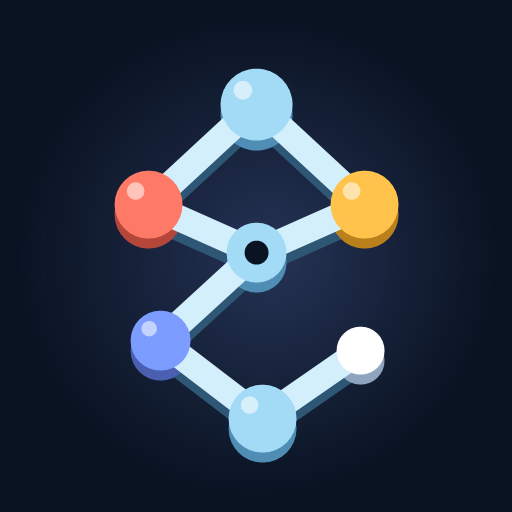
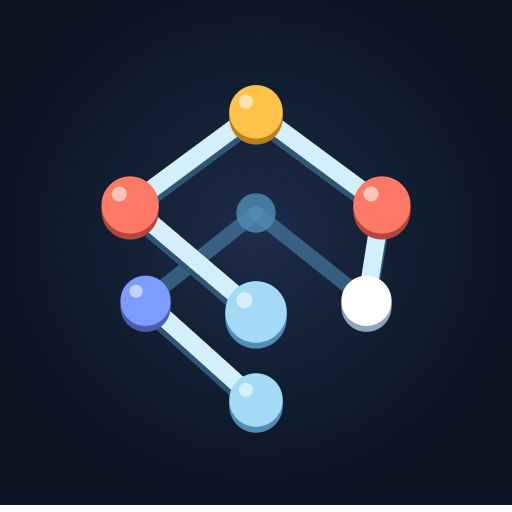
v227: capa: cubo animado em ciclo (giro, pulso dos átomos, balanço, elétrons nas ligações); sem a imagem de referência; ícone do app novo

Changed region(s): [[0.1875, 0.125, 0.8125, 0.9062], [0.0, 0.9688, 1.0, 1.0]]

diff --git a/index.html b/index.html
@@ -78,7 +78,6 @@
   #capa.ativa { display: grid; }
   /* logo acima do título; entra com o mesmo "pop" dos átomos */
   #capa .logo-linha { display: flex; align-items: center; gap: 18px; margin: 0 0 1.1rem; }
-  #capa .logo-ref { display: block; width: clamp(40px, 3vw + 20px, 64px); height: auto; filter: invert(1); opacity: .9; }
   #capa .logo-capa { display: block; width: clamp(64px, 6vw + 30px, 104px); aspect-ratio: 1; height: auto; margin: 0; cursor: grab; touch-action: none; filter: drop-shadow(0 10px 24px rgba(124,156,255,.28)); }
   #capa.play .logo-capa { animation: pop .6s cubic-bezier(.3,1.6,.5,1) both; transform-origin: 50% 80%; }
   @media (prefers-reduced-motion: reduce) { #capa.play .logo-capa { animation: none; } }
@@ -1331,7 +1330,6 @@
   <div class="text">
     <div class="logo-linha">
       <svg class="logo-capa" id="logoCubo" viewBox="-20 -14 552 552" role="img" aria-label="Cubo de átomos: arraste para girar"><use href="#logo"/></svg>
-      <img class="logo-ref" src="imagens/icone-referencia.png" alt="Ícone de referência">
     </div>
     <h1><span class="l2">Moléculas</span></h1>
     <p class="lede">Um audiobook interativo sobre ligações químicas: ouça, observe e aprenda a montar moléculas passo a passo.</p>
@@ -1344,7 +1342,7 @@
     </div>
     <button class="btn-iniciar" id="btnIniciar" type="button"><span class="ico"><svg viewBox="0 0 12 14" aria-hidden="true"><path d="M0 0L12 7L0 14Z" fill="currentColor"/></svg></span><span class="lbl">Iniciar</span></button>
     <button class="btn-demo" id="btnDemo" type="button" title="O app passa sozinho, sem som, com uma mãozinha fazendo os toques e respondendo os quizzes">Demonstração</button>
-    <span class="versao" id="versao">v226 · 11/10/2026</span>
+    <span class="versao" id="versao">v227 · 11/10/2026</span>
     <div class="credit">
       <span class="avatar"><img src="imagens/amauri_jr.jpg" alt="Foto de Amauri Junior"></span>
       <span class="credit-txt"><small>Designed by</small><strong>Amauri Junior</strong></span>
@@ -10050,55 +10048,108 @@ const Dev = {
 };
 Dev.iniciar();
 
-// o cubo de átomos da capa: desenhado em 3D (projeção com perspectiva) e girado com o dedo/mouse
+// o cubo de átomos da capa: desenhado em 3D (projeção com perspectiva), animado em ciclo e girado com o dedo/mouse
+// ciclo (12 s): descanso → giro completo → descanso → átomos crescem em sequência → descanso → balanço → descanso;
+// os elétrons (2 por ligação, um par) correm pelas ligações o tempo todo
 const CuboCapa = {
-  // a pose escolhida pela professora: amarelo no alto, corais nos lados, visto bem de cima
-  ay: 45 * Math.PI / 180, ax: -55 * Math.PI / 180, vy: 0, vx: 0,
-  // só as arestas do ícone (as pintadas de vermelho): o "V" de cima, as duas diagonais paralelas, a lateral direita e a de baixo
+  // a pose de descanso escolhida pela professora: amarelo no alto, corais nos lados, visto bem de cima
+  AY0: 45 * Math.PI / 180, AX0: -55 * Math.PI / 180,
+  // só as arestas do ícone (as pintadas de vermelho)
   ARESTAS: [[3, 2], [3, 7], [2, 6], [1, 5], [1, 0], [7, 5], [0, 4]],
   CORES: ["#7C9CFF","#A3DBF7","#FF7A66","#FFC24B","#A3DBF7","#FFFFFF","#A3DBF7","#FF7A66"],
   ESCURAS: ["#4A5FB0","#4F8DB5","#B4473A","#B9801B","#4F8DB5","#8FA4BF","#4F8DB5","#B4473A"],
+  ORDEM_PULSO: [3, 2, 7, 1, 6, 0, 5, 4],   // de cima para baixo
+  CICLO: 12,
+  modo: "auto", tl: 0, vy: 0, vx: 0,
   iniciar() {
     const s = this.el = document.getElementById("logoCubo"); if (!s) return;
     this.V = []; for (const x of [-1, 1]) for (const y of [-1, 1]) for (const z of [-1, 1]) this.V.push([x, y, z]);
-    this.E = this.ARESTAS;
-    this.desenhar();
-    // o ícone do topo da página 1 é o mesmo cubo, parado nessa pose
+    this.E = this.ARESTAS; this.ay = this.AY0; this.ax = this.AX0;
+    this.desenhar(null, false);
+    // o ícone do topo da página 1 é o mesmo cubo, parado na pose de descanso
     const sym = document.getElementById("logo");
     if (sym) { sym.setAttribute("viewBox", "-20 -14 552 552"); sym.innerHTML = s.innerHTML; }
     let ult = null;
-    s.addEventListener("pointerdown", e => { ult = { x: e.clientX, y: e.clientY, t: performance.now() }; this.vy = this.vx = 0; s.style.cursor = "grabbing";
-      try { s.setPointerCapture(e.pointerId); } catch (_) {} });
+    s.addEventListener("pointerdown", e => { ult = { x: e.clientX, y: e.clientY, t: performance.now() }; this.vy = this.vx = 0; this.modo = "mao";
+      s.style.cursor = "grabbing"; try { s.setPointerCapture(e.pointerId); } catch (_) {} });
     s.addEventListener("pointermove", e => { if (!ult) return;
       const dx = e.clientX - ult.x, dy = e.clientY - ult.y, dt = Math.max(performance.now() - ult.t, 1), k = .012;
-      this.ay += dx * k; this.ax = Math.max(-1.4, Math.min(1.4, this.ax - dy * k));
+      this.ay += dx * k; this.ax = this.limita(this.ax - dy * k);
       this.vy = dx * k / dt * 16; this.vx = -dy * k / dt * 16;
-      ult = { x: e.clientX, y: e.clientY, t: performance.now() }; this.desenhar(); });
-    const solta = () => { if (!ult) return; ult = null; s.style.cursor = ""; this.embalo(); };
+      ult = { x: e.clientX, y: e.clientY, t: performance.now() }; });
+    const solta = () => { if (!ult) return; ult = null; s.style.cursor = ""; this.modo = "embalo"; };
     s.addEventListener("pointerup", solta); s.addEventListener("pointercancel", solta);
+    if (matchMedia("(prefers-reduced-motion: reduce)").matches) return;   // parado, só o arraste
+    let antes = performance.now();
+    const quadro = agora => {
+      const dt = Math.min((agora - antes) / 1000, .05); antes = agora;
+      const capa = document.getElementById("capa");
+      if (capa.classList.contains("ativa") && !document.hidden) { this.passo(dt); this.desenhar(this.pulsos(), true); }
+      requestAnimationFrame(quadro);
+    };
+    requestAnimationFrame(quadro);
   },
-  // solto com velocidade, ele continua girando e vai parando
-  embalo() {
-    const passo = () => { if (Math.abs(this.vy) + Math.abs(this.vx) < .0008) return;
-      this.ay += this.vy; this.ax = Math.max(-1.4, Math.min(1.4, this.ax + this.vx)); this.vy *= .94; this.vx *= .94;
-      this.desenhar(); requestAnimationFrame(passo); };
-    requestAnimationFrame(passo);
+  limita(a) { return Math.max(-1.4, Math.min(1.4, a)); },
+  suave(u) { u = Math.max(0, Math.min(1, u)); return u < .5 ? 4 * u * u * u : 1 - Math.pow(-2 * u + 2, 3) / 2; },
+  passo(dt) {
+    this.tl += dt; this.te = (this.te || 0) + dt;   // te: o relógio dos elétrons (nunca para)
+    if (this.modo === "auto") {
+      const t = this.tl % this.CICLO;
+      let ay = this.AY0, ax = this.AX0;
+      if (t >= 2 && t < 4.4) ay += 2 * Math.PI * this.suave((t - 2) / 2.4);             // giro completo
+      else if (t >= 8.6 && t < 10.8) { const u = (t - 8.6) / 2.2;                          // balanço
+        ax += .5 * Math.sin(Math.PI * u); ay += .75 * Math.sin(2 * Math.PI * u) * (1 - u * .4); }
+      this.ay = ay; this.ax = ax;
+    } else if (this.modo === "embalo") {
+      this.ay += this.vy; this.ax = this.limita(this.ax + this.vx); this.vy *= .94; this.vx *= .94;
+      if (Math.abs(this.vy) + Math.abs(this.vx) < .0008) { this.modo = "espera"; this.espera = 2.2; }
+    } else if (this.modo === "espera") {
+      if ((this.espera -= dt) <= 0) {
+        // volta para o descanso pelo caminho mais curto
+        const dy = ((this.ay - this.AY0) % (2 * Math.PI) + 3 * Math.PI) % (2 * Math.PI) - Math.PI;
+        this.volta = { ay: this.AY0 + dy, ax: this.ax, u: 0 }; this.modo = "volta";
+      }
+    } else if (this.modo === "volta") {
+      const v = this.volta; v.u += dt / 1.1; const k = this.suave(v.u);
+      this.ay = v.ay + (this.AY0 - v.ay) * k; this.ax = v.ax + (this.AX0 - v.ax) * k;
+      if (v.u >= 1) { this.modo = "auto"; this.tl = 0; }
+    }
   },
-  desenhar() {
+  // os átomos crescem um depois do outro (fator de escala de cada um)
+  pulsos() {
+    const esc = new Array(8).fill(1); if (this.modo !== "auto") return esc;
+    const t = this.tl % this.CICLO - 5.6;
+    this.ORDEM_PULSO.forEach((i, n) => { const u = (t - n * .2) / .55; if (u > 0 && u < 1) esc[i] = 1 + .42 * Math.sin(Math.PI * u); });
+    return esc;
+  },
+  desenhar(esc, eletrons) {
+    esc = esc || new Array(8).fill(1);
     const S = 112, cx = 256, cy = 262, ay = this.ay, ax = this.ax;
     const P = this.V.map(([x, y, z]) => { const X = x * Math.cos(ay) + z * Math.sin(ay); let Z = -x * Math.sin(ay) + z * Math.cos(ay);
       const Y = y * Math.cos(ax) - Z * Math.sin(ax); Z = y * Math.sin(ax) + Z * Math.cos(ax); const k = 1 / (1 + Z * .08);
       return { x: cx + X * S * k, y: cy - Y * S * k, z: Z, k }; });
     const f = n => n.toFixed(1), linha = ([a, b]) => `<line x1="${f(P[a].x)}" y1="${f(P[a].y)}" x2="${f(P[b].x)}" y2="${f(P[b].y)}"/>`;
-    // o canto mais ao fundo fica apagado, com as suas 3 ligações; o resto claro, com sombra, do fundo para a frente
+    // o canto mais ao fundo fica apagado, com as suas ligações; o resto claro, com sombra, do fundo para a frente
     const fundo = P.reduce((m, p, i) => p.z > P[m].z ? i : m, 0);
     const tras = this.E.filter(e => e.includes(fundo)), frente = this.E.filter(e => !e.includes(fundo));
     const ordem = P.map((p, i) => i).sort((a, b) => P[b].z - P[a].z);
+    // os elétrons: um par por ligação, indo de uma ponta à outra e nascendo/sumindo dentro dos átomos
+    const eletronsDe = (lista, apagado) => !eletrons ? "" : lista.map(e => {
+      const k = this.E.indexOf(e), [a, b] = e;
+      return [0, .5].map(d => { const p = ((this.te || 0) / 1.5 + k * .29 + d) % 1, op = Math.sin(Math.PI * p) * (apagado ? .45 : 1);
+        const x = P[a].x + (P[b].x - P[a].x) * p, y = P[a].y + (P[b].y - P[a].y) * p;
+        return `<circle cx="${f(x)}" cy="${f(y)}" r="24" fill="#FFC24B" fill-opacity="${(op * .32).toFixed(2)}"/>`
+          + `<circle cx="${f(x)}" cy="${f(y)}" r="11" fill="#FFF3C4" fill-opacity="${op.toFixed(2)}"/>`; }).join("");
+    }).join("");
     let s = `<g stroke="#4F8DB5" stroke-opacity=".55" stroke-width="20" stroke-linecap="round">${tras.map(linha).join("")}</g>`
-      + `<circle cx="${f(P[fundo].x)}" cy="${f(P[fundo].y)}" r="${f(30 * P[fundo].k)}" fill="#4F8DB5" fill-opacity=".8"/>`
+      + eletronsDe(tras, true)
+      + `<circle cx="${f(P[fundo].x)}" cy="${f(P[fundo].y)}" r="${f(30 * P[fundo].k * esc[fundo])}" fill="#4F8DB5" fill-opacity=".8"/>`
       + `<g stroke="#2E5775" stroke-width="26" stroke-linecap="round" transform="translate(0 8)">${frente.map(linha).join("")}</g>`
-      + `<g stroke="#D3EFFC" stroke-width="24" stroke-linecap="round">${frente.map(linha).join("")}</g>`;
-    for (const i of ordem) { if (i === fundo) continue; const p = P[i], r = 36 * p.k;
+      + `<g stroke="#D3EFFC" stroke-width="24" stroke-linecap="round">${frente.map(linha).join("")}</g>`
+      + eletronsDe(frente, false);
+    for (const i of ordem) { if (i === fundo) continue; const p = P[i], r = 36 * p.k * esc[i];
+      // no pulso, um halo da cor do átomo
+      if (esc[i] > 1.01) s += `<circle cx="${f(p.x)}" cy="${f(p.y)}" r="${f(r * 1.45)}" fill="${this.CORES[i]}" fill-opacity="${((esc[i] - 1) / .42 * .3).toFixed(2)}"/>`;
       s += `<circle cx="${f(p.x)}" cy="${f(p.y + 8)}" r="${f(r)}" fill="${this.ESCURAS[i]}"/><circle cx="${f(p.x)}" cy="${f(p.y)}" r="${f(r)}" fill="${this.CORES[i]}"/>`
         + `<circle cx="${f(p.x - r * .38)}" cy="${f(p.y - r * .38)}" r="${f(r * .26)}" fill="#fff" fill-opacity=".55"/>`; }
     this.el.innerHTML = s;

diff --git a/sw.js b/sw.js
@@ -1,6 +1,6 @@
 /* Service worker do app. Guarda tudo na instalação: depois da primeira
    visita, o app abre inteiro sem internet. */
-const CACHE = 'moleculas-v226';
+const CACHE = 'moleculas-v227';
 const ARQUIVOS = [
   './',
   './index.html',
@@ -13,7 +13,6 @@ const ARQUIVOS = [
   './imagens/copo_agua_recorte.png',
   './imagens/etanol.png',
   './imagens/g.n.lewis.avif',
-  './imagens/icone-referencia.png',
   './imagens/lewis2.jpg',
   './fontes/atkinson-hyperlegible-400.woff2',
   './fontes/atkinson-hyperlegible-700.woff2',
